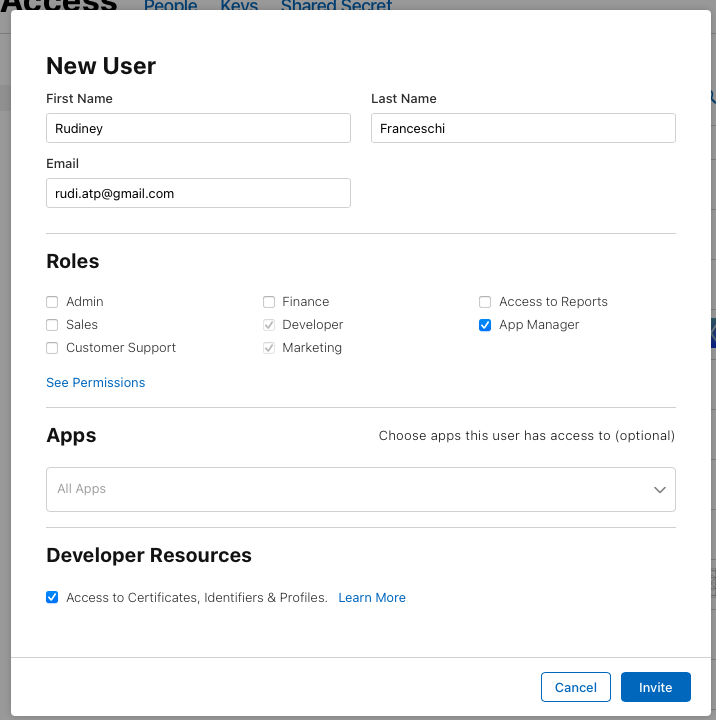
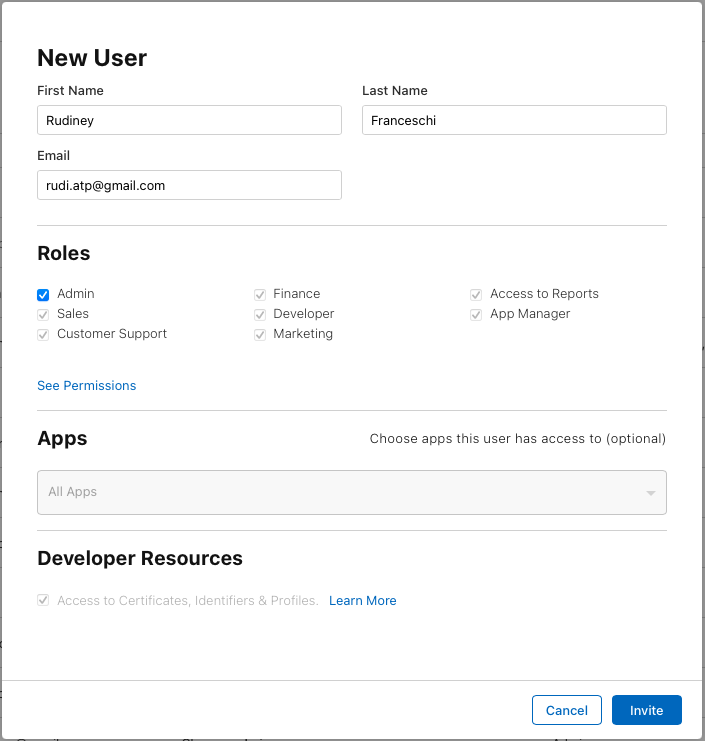
update the apple store invite to mark as admin

diff --git a/add_devs_to_store_accounts.md b/add_devs_to_store_accounts.md
@@ -6,14 +6,12 @@ Para publicar um aplicativo nas lojas é necessário que nosso time tenha o devi
 
 ### Google
 - Francisco Tavares: `fco.anjos@gmail.com`
-- Fabiano Oliveira: `fabianooliveirale@gmail.com`
 - Victor Pereira: `devmaker.victor@gmail.com`
 - Gabriel Agrelli: `gabriel.agrelli@devmaker.com.br`
 - Rudiney Franceschi: `rudi.atp@gmail.com`
 - DevMaker Mobile: `infra@devmaker.com.br`
 
 ### Apple:
-- Fabiano Oliveira: `fabianooliveirale@gmail.com`
 - Cleverson Luiz: `devmaker.cleversonsouza@gmail.com`
 - Rudiney Franceschi: `rudi.atp@gmail.com`
 - DevMaker Mobile: `infra@devmaker.com.br`
@@ -47,9 +45,9 @@ Para o projeto android, precisamos de 2 acessos diferentes: na **Play Console** 
 
 ### Apple:
 1. Acessar: https://appstoreconnect.apple.com/access/users
-1. Ter certeza que esta logado na conta certa: 
+1. Ter certeza que esta logado na conta certa:
     - ![](./assets/add_devs_to_store_accounts/check_apple_account.png)
 1. Usar o botão de + pra convidar um novo usuário:
-    - O usuário precisa de permissnao de **App Manager** e **Access to Certificates, Identifiers & Profiles**
+    - O usuário precisa de permissão de **Admin** e **Access to Certificates, Identifiers & Profiles**
     ![](./assets/add_devs_to_store_accounts/add_appledev.png)
 
